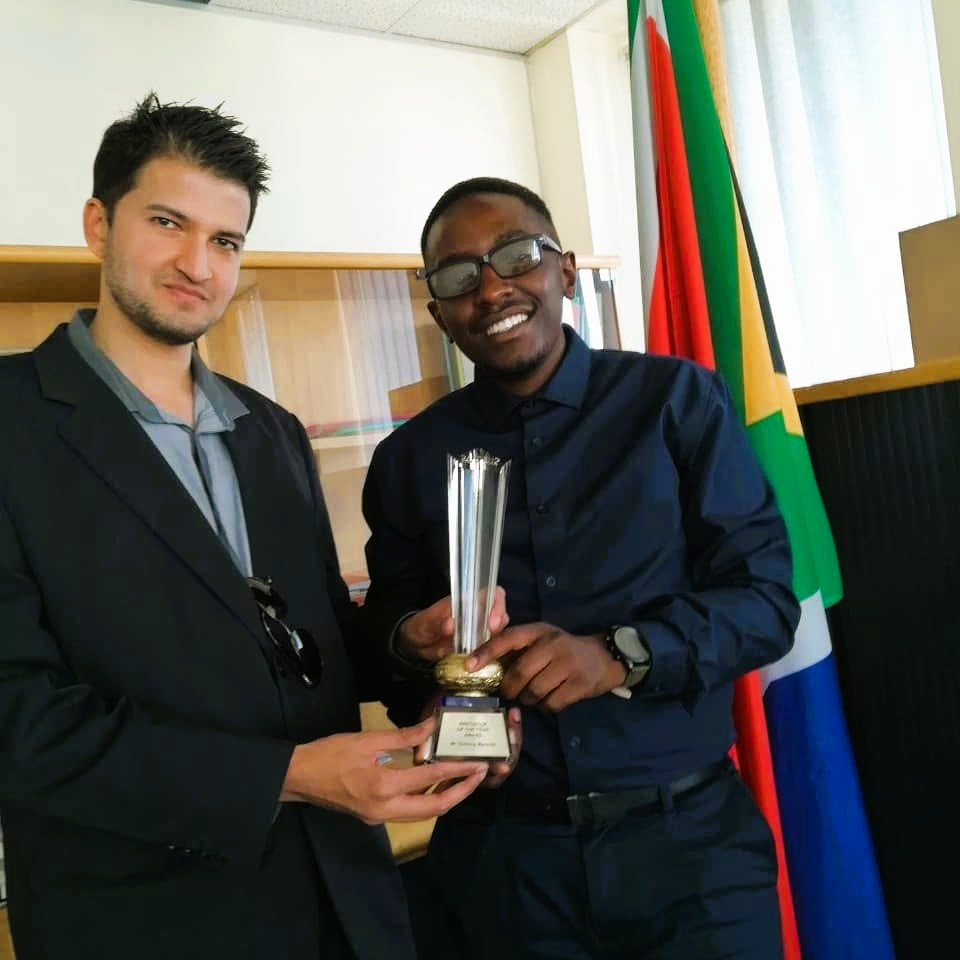
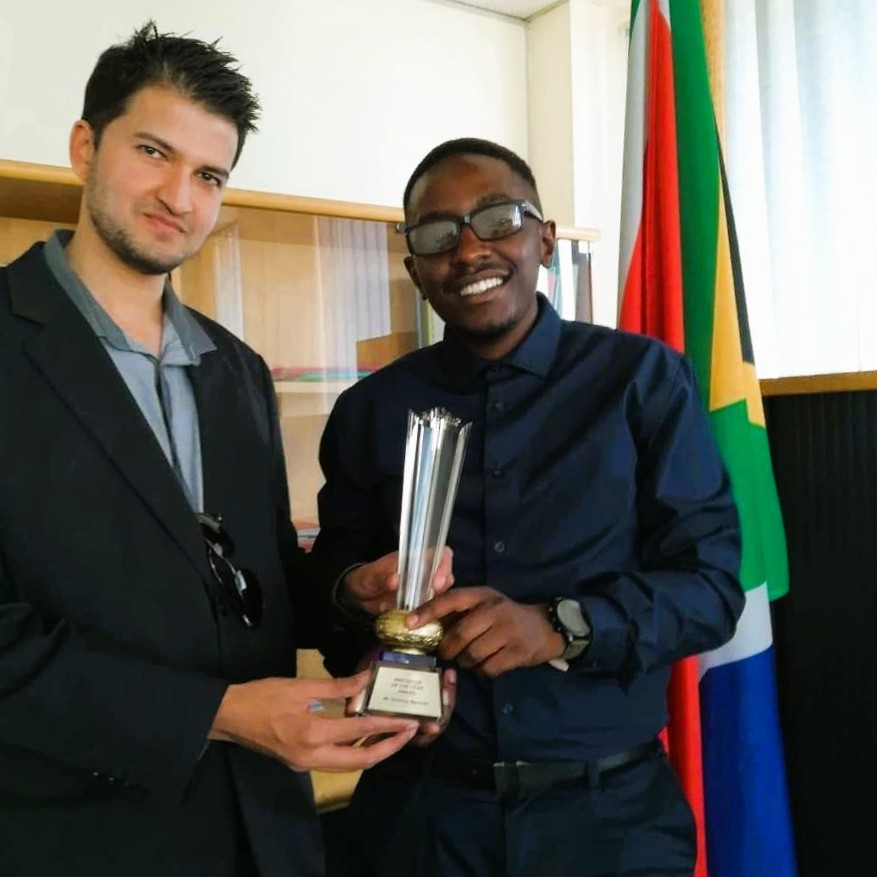
[refactor] improve ProfilePersonasHero hover interactions and clean up assets
- Implement `getHoverTarget` helper to centralize hover state calculations, introducing responsive offsets for x, y, rotation, and scale based on device type.
- Enhance `PersonaCard` hover animations by replacing simple scale shifts with a spring-based transition for a more fluid user experience.
- Comment out specific persona profiles (IDs 1 and 4) and move their corresponding image assets to a deprecated directory.
- Update profile image `thabang_mp (16).jpg` with a new version.

diff --git a/adaptivconcept-react/src/components/ProfilePersonasHero.jsx b/adaptivconcept-react/src/components/ProfilePersonasHero.jsx
@@ -2,13 +2,13 @@ import React, { useCallback, useEffect, useRef, useState } from "react";
 import { motion, useAnimationControls } from "framer-motion";
 
 const personas = [
-  {
-    id: 1,
-    src: "/media/profile_images/" + encodeURIComponent("thabang_mp (2).jpg"),
-    label: "Professional Systems Developer",
-    description:
-      "Reliable systems delivery grounded in enterprise architecture, thoughtful engineering patterns, and maintainable implementation.",
-  },
+//   {
+//     id: 1,
+//     src: "/media/profile_images/" + encodeURIComponent("thabang_mp (2).jpg"),
+//     label: "Professional Systems Developer",
+//     description:
+//       "Reliable systems delivery grounded in enterprise architecture, thoughtful engineering patterns, and maintainable implementation.",
+//   },
   {
     id: 2,
     src: "/media/profile_images/" + encodeURIComponent("thabang_mp (4).jpg"),
@@ -23,13 +23,13 @@ const personas = [
     description:
       "A practical builder who sweats the details that make products resilient, usable, and ready for real teams.",
   },
-  {
-    id: 4,
-    src: "/media/profile_images/" + encodeURIComponent("thabang_mp (6).jpg"),
-    label: "The Tech Vector",
-    description:
-      "An experimental lens on open source, local AI tooling, and rapid paths from idea to working software.",
-  },
+//   {
+//     id: 4,
+//     src: "/media/profile_images/" + encodeURIComponent("thabang_mp (6).jpg"),
+//     label: "The Tech Vector",
+//     description:
+//       "An experimental lens on open source, local AI tooling, and rapid paths from idea to working software.",
+//   },
   {
     id: 5,
     src: "/media/profile_images/" + encodeURIComponent("thabang_mp (7).jpg"),
@@ -108,6 +108,19 @@ const getSlotTarget = (slot) => {
     rotate: Math.round((slot - mid) * (isMobile ? -0.8 : -1)),
     scale: 1,
     zIndex: TOTAL - slot,
+  };
+};
+
+const getHoverTarget = (slot) => {
+  const target = getSlotTarget(slot);
+  const { isMobile } = getDeckMetrics();
+  return {
+    ...target,
+    x: target.x - (isMobile ? 26 : 44),
+    y: target.y - (isMobile ? 26 : 18),
+    rotate: target.rotate - (isMobile ? 14 : 16),
+    scale: isMobile ? 1.08 : 1.05,
+    zIndex: TOTAL + 5,
   };
 };
 
@@ -238,8 +251,17 @@ const PersonaCard = ({
         event.stopPropagation();
         onSelect(persona.id);
       }}
-      onHoverStart={() => !selected && controls.start({ scale: 1.03, y: getSlotTarget(slot).y - (isPivot ? 8 : 4) })}
-      onHoverEnd={() => !selected && controls.start(getSlotTarget(slot))}
+      onHoverStart={() => {
+        if (selected) return;
+        controls.start({
+          ...getHoverTarget(slot),
+          transition: { type: "spring", stiffness: 220, damping: 16, mass: 0.8 },
+        });
+      }}
+      onHoverEnd={() => {
+        if (selected) return;
+        controls.start(getSlotTarget(slot));
+      }}
       className="absolute w-32 h-44 sm:w-44 sm:h-56 md:w-52 md:h-64 rounded-2xl border-2 border-white bg-white p-2 pb-8 shadow-[0_18px_35px_rgba(0,0,0,0.48)] cursor-pointer touch-manipulation pointer-events-auto focus-visible:outline focus-visible:outline-2 focus-visible:outline-offset-4 focus-visible:outline-white"
       style={{ top: "clamp(6.5rem, 10vw, 8rem)", right: "clamp(1.25rem, 4vw, 2rem)" }}
     >
